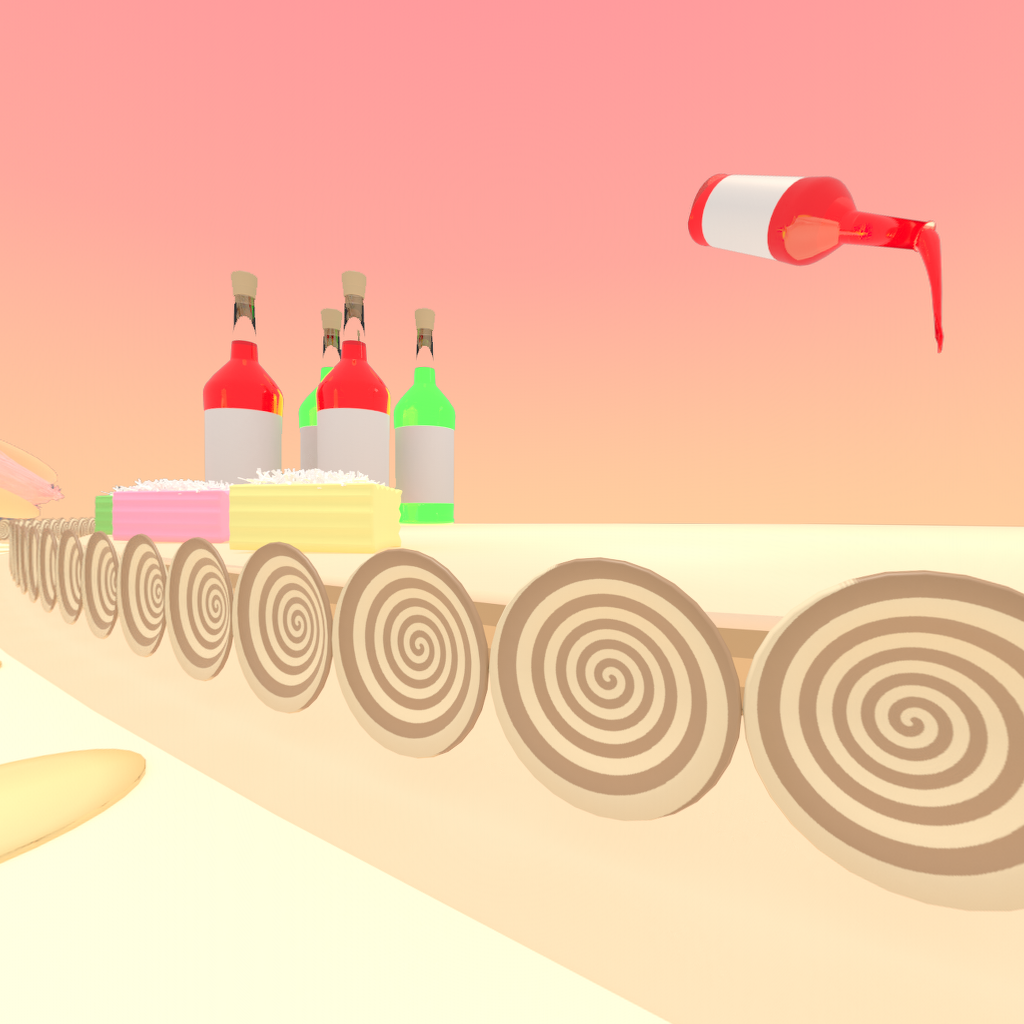
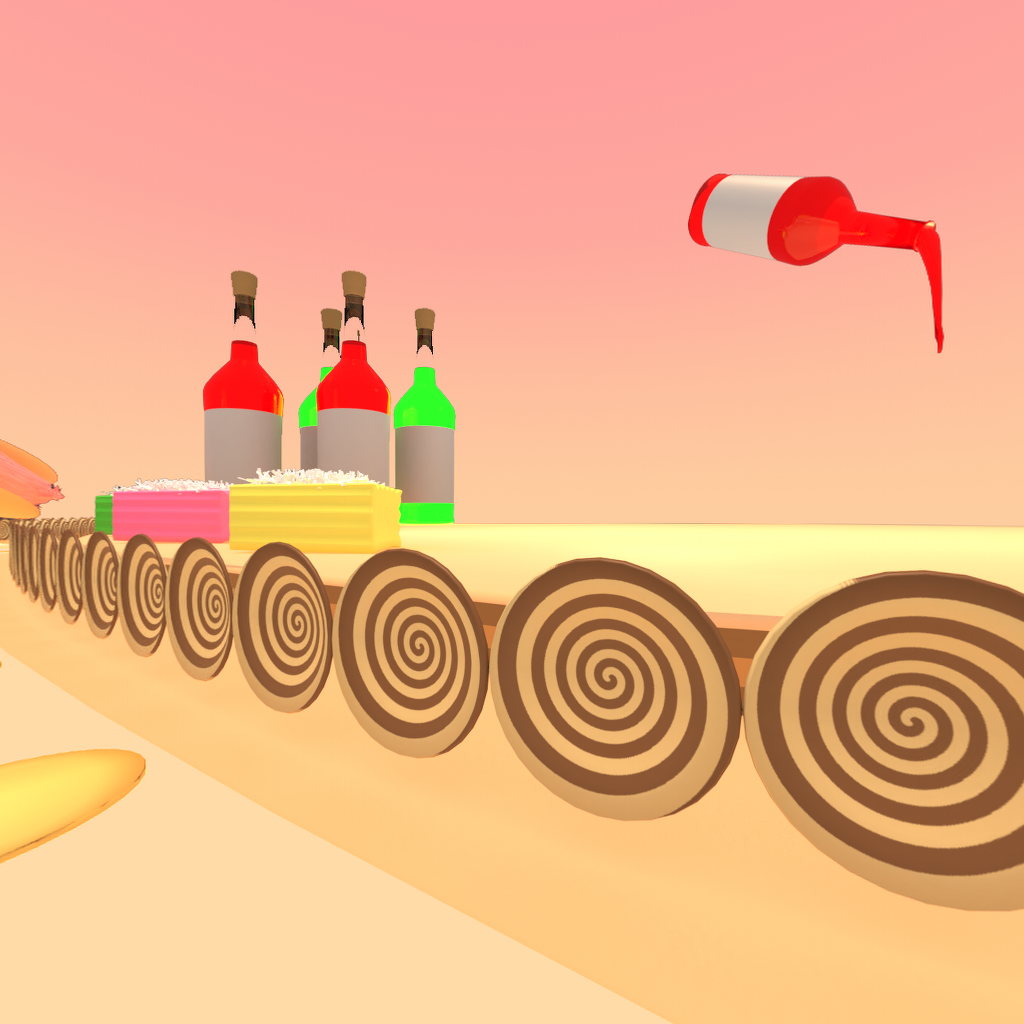
update

diff --git a/js/foody-test.js b/js/foody-test.js
@@ -179,19 +179,40 @@ function setupSkyBox(){
 	skyboxTexture.format = THREE.RGBFormat;
 	skyboxTexture.encoding = THREE.sRGBEncoding;	
 	scene.background = skyboxTexture;	
-	scene.environment = skyboxTexture;	
+	// scene.environment = skyboxTexture;	
 }
 
 function setupLight(){
 	// ff849c pink
 	// ffce9f cream
-	const skyColor = 0xffffff; 
+	const skyColor = 0xffce9f; 
 	const groundColor = 0xffce9f;
 	const intensity = 1;
-	// const light = new THREE.HemisphereLight(skyColor, groundColor, intensity);
-	// scene.add( light );	
-	const ambLight = new THREE.AmbientLight( skyColor , intensity); // soft white light
-	scene.add( ambLight );
+	const hemiLight = new THREE.HemisphereLight( skyColor, groundColor, 0.6 );
+	hemiLight.color.setHSL( 0.08, 1, 0.81 );
+	hemiLight.groundColor.setHSL( 0.08, 1, 0.81 );
+	hemiLight.position.set( 0, 50, 0 );
+	scene.add( hemiLight );
+
+	const hemiLightHelper = new THREE.HemisphereLightHelper( hemiLight, 10 );
+	scene.add( hemiLightHelper );
+	const dirLight = new THREE.DirectionalLight( skyColor, 1 );
+	dirLight.color.setHSL( 0.08, 1, 0.81 );
+	dirLight.position.set( - 1, 1.75, 1 );
+	dirLight.position.multiplyScalar( 30 );
+	scene.add( dirLight );
+
+	dirLight.castShadow = true;	
+	
+	const dirLight2 = new THREE.DirectionalLight( skyColor, 1 );
+	dirLight2.color.setHSL( 0.08, 1, 0.81 );
+	dirLight2.position.set( 1, 1.75, -1 );
+	dirLight2.position.multiplyScalar( 30 );
+	scene.add( dirLight2 );
+
+	dirLight2.castShadow = true;		
+	// const ambLight = new THREE.AmbientLight( skyColor , 1); // soft white light
+	// scene.add( ambLight );
 }
 
 function resizeRendererToDisplaySize(renderer) {
@@ -358,7 +379,7 @@ function main(){
 	composer.addPass(new RenderPass(scene,camera));
 	// composer.addPass(new ShaderPass(BrightnessContrastShader));
 	composer.addPass(new ShaderPass(GradientMapShader));
-	// composer.addPass(new ShaderPass(GammaCorrectionShader));	
+	composer.addPass(new ShaderPass(GammaCorrectionShader));	
 	
 	setupLight();
 	setupSkyBox();

diff --git a/js/essential.js b/js/essential.js
@@ -3,9 +3,8 @@ export function setupRenderer(renderer,canvas,paramsTone){
 	renderer = new THREE.WebGLRenderer({antialias: true, preserveDrawingBuffer: true,canvas});
 	renderer.setPixelRatio( window.devicePixelRatio );
 	renderer.outputEncoding = THREE.sRGBEncoding;
-	// renderer.toneMapping = THREE.ACESFilmicToneMapping;
-	// renderer.toneMappingExposure = 1;
-	console.log(renderer.toneMappingExposure);
+	// renderer.toneMapping = THREE.ReinhardToneMapping
+	// renderer.toneMappingExposure = 2;
 	// document.getElementById("canvasBlend").appendChild( renderer.domElement );	
 	document.body.appendChild( renderer.domElement );	
 	return renderer;

diff --git a/three/examples/jsm/shaders/GammaCorrectionShader.js b/three/examples/jsm/shaders/GammaCorrectionShader.js
@@ -34,7 +34,7 @@ var GammaCorrectionShader = {
 
 		'	vec4 tex = texture2D( tDiffuse, vUv );',
 
-		'	gl_FragColor = LinearToGamma( tex, float( 1 ) );', // optional: LinearToGamma( tex, float( GAMMA_FACTOR ) );, LinearTosRGB( tex )
+		'	gl_FragColor = LinearToGamma( tex, float( 2 ) );', // optional: LinearToGamma( tex, float( GAMMA_FACTOR ) );, 
 
 		'}'
 

diff --git a/three/examples/jsm/shaders/BrightnessContrastShader.js b/three/examples/jsm/shaders/BrightnessContrastShader.js
@@ -10,8 +10,8 @@ var BrightnessContrastShader = {
 	uniforms: {
 
 		'tDiffuse': { value: null },
-		'brightness': { value: -0.2 },
-		'contrast': { value: 0.446 }
+		'brightness': { value: 0 },
+		'contrast': { value: 0 }
 
 	},
 
